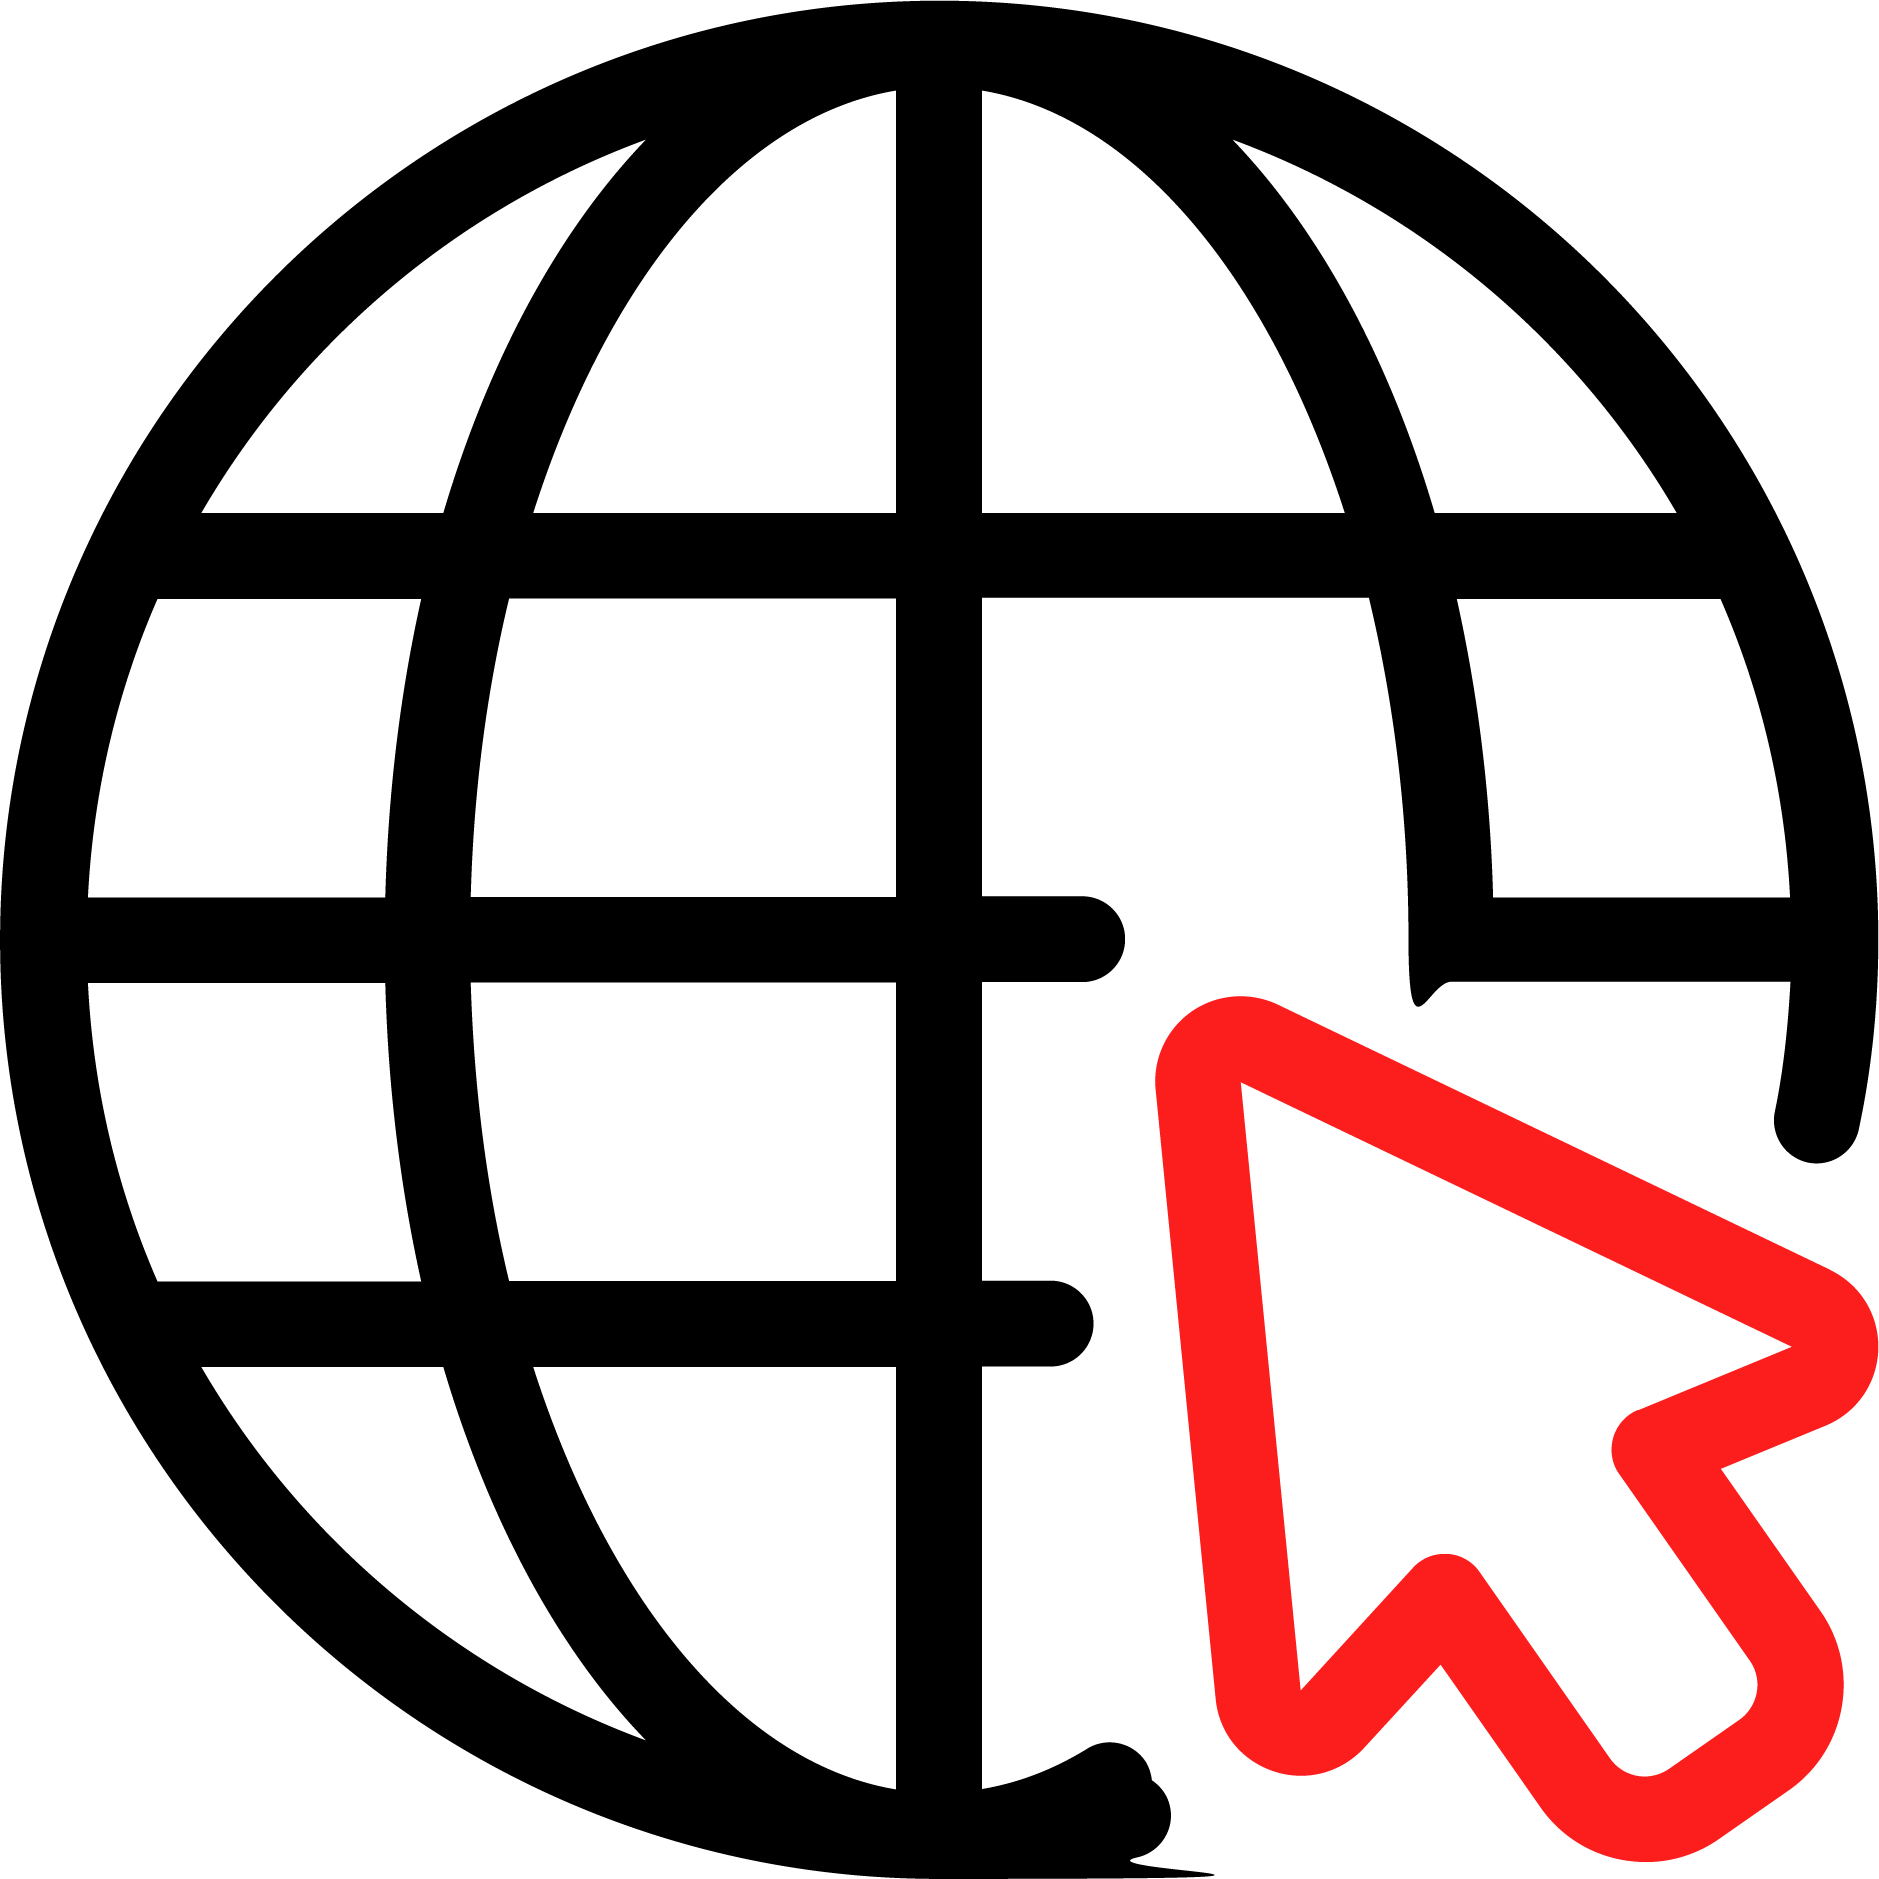
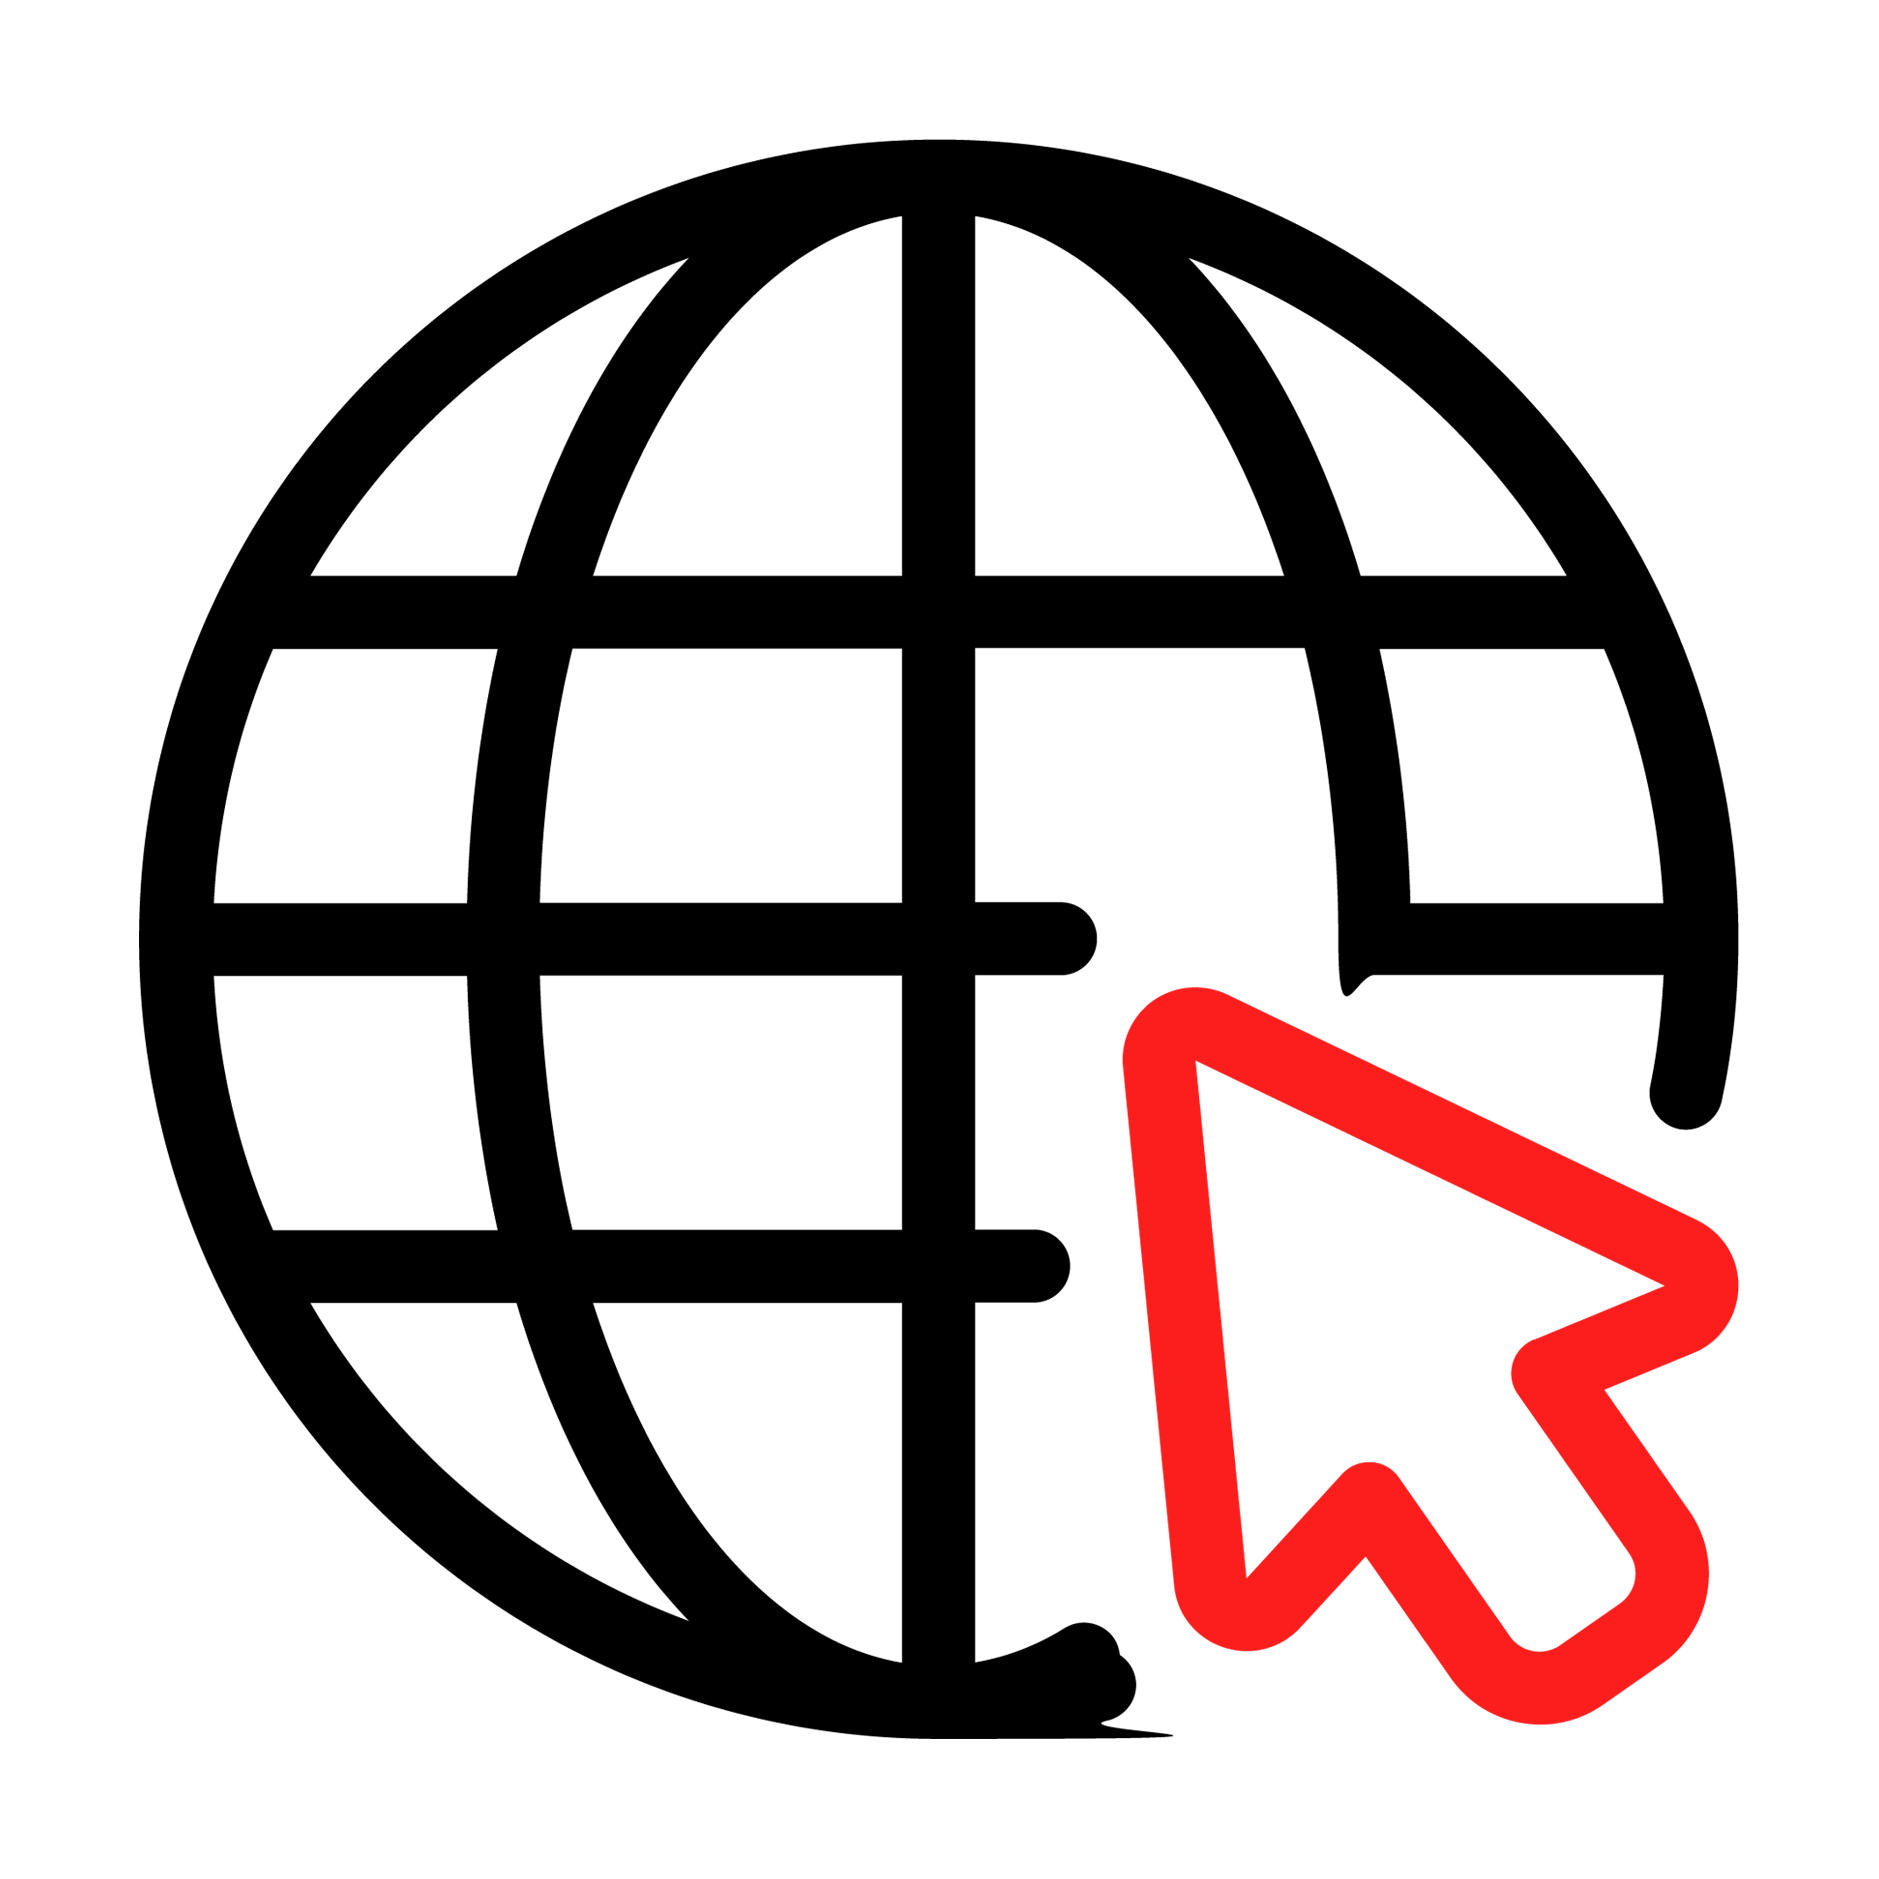
upgrate design changes

diff --git a/assets/css/responsive.css b/assets/css/responsive.css
@@ -123,6 +123,11 @@
 
 /* 1500px - 1999px - Large Screens */
 @media (min-width: 1500px) and (max-width: 1999.99px) {
+
+    .container, .container-lg, .container-md, .container-sm, .container-xl, .container-xxl{
+        max-width: 1530px
+    }
+
     .nav-link {
         margin: 0 10px !important;
     }

diff --git a/assets/css/style.css b/assets/css/style.css
@@ -333,7 +333,7 @@ a.demo-account-btn:hover {
 }
 
 h1.fw-bold{
-    font-size: 3rem;
+    font-size: 3.5rem;
 }
 
 /* Fixed button */

diff --git a/american-market.php b/american-market.php
@@ -176,7 +176,7 @@ include_once ('elements/header.php');
                             <div class="text-muted small">1.15894</div>
                         </div>
                     </div>
-                    <button class="btn btn-sm btn-outline-warning rounded-pill px-3">Trade</button>
+                    <button class="btn btn-sm btn-outline-danger rounded-pill px-3">Trade</button>
                 </div>
 
                 <!-- Repeat more market cards as needed -->
@@ -188,7 +188,7 @@ include_once ('elements/header.php');
                             <div class="text-muted small">148.756</div>
                         </div>
                     </div>
-                    <button class="btn btn-sm btn-outline-warning rounded-pill px-3">Trade</button>
+                    <button class="btn btn-sm btn-outline-danger rounded-pill px-3">Trade</button>
                 </div>
 
                 <!-- Chart Card -->
@@ -201,10 +201,7 @@ include_once ('elements/header.php');
                                 <div class="text-muted small">1.33984</div>
                             </div>
                         </div>
-                        <button class="btn btn-sm btn-outline-warning rounded-pill px-3">Trade</button>
-                    </div>
-                    <div class="d-flex align-items-center mt-2">
-                        <span class="badge bg-danger-subtle text-danger small">↓ -0.100%</span>
+                        <button class="btn btn-sm btn-outline-danger rounded-pill px-3">Trade</button>
                     </div>
                 </div>
 
@@ -217,7 +214,7 @@ include_once ('elements/header.php');
                             <div class="text-muted small">1.15894</div>
                         </div>
                     </div>
-                    <button class="btn btn-sm btn-outline-warning rounded-pill px-3">Trade</button>
+                    <button class="btn btn-sm btn-outline-danger rounded-pill px-3">Trade</button>
                 </div>
 
                 <!-- Repeat more market cards as needed -->
@@ -229,7 +226,7 @@ include_once ('elements/header.php');
                             <div class="text-muted small">148.756</div>
                         </div>
                     </div>
-                    <button class="btn btn-sm btn-outline-warning rounded-pill px-3">Trade</button>
+                    <button class="btn btn-sm btn-outline-danger rounded-pill px-3">Trade</button>
                 </div>
 
             </div>

diff --git a/index.php b/index.php
@@ -1049,7 +1049,7 @@ if( false ){
                     <div class="col-md-12 set-m-bottom">
                         <div class="row">
                             <div class="col-6" data-aos="fade-up" data-aos-duration="1200">
-                                <img src="assets/images/web-trade-icon.png" class="w-100">
+                                <img src="assets/images/web-trade-icon.png?v=0.01" class="w-100">
                             </div>
                             <div class="col-6 verticle-center text-start" data-aos="fade-up" data-aos-duration="1300">
                                 <h3 class="fw-bold">Web Trading</h3>
